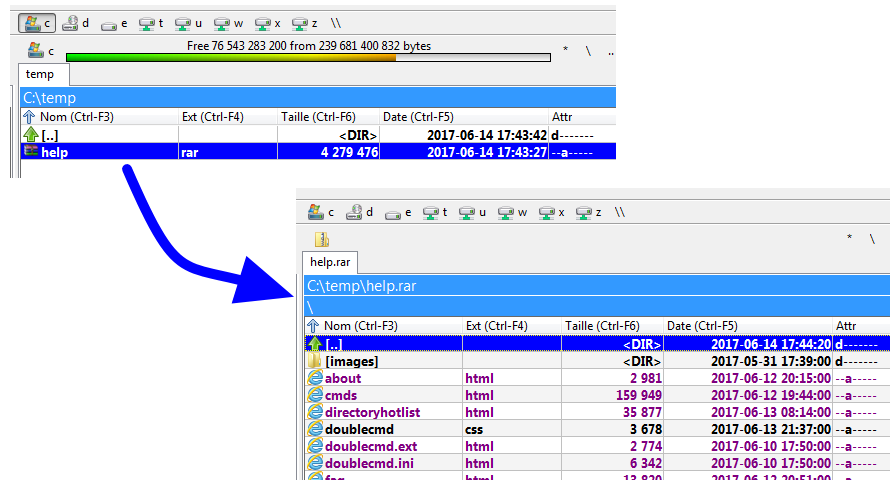
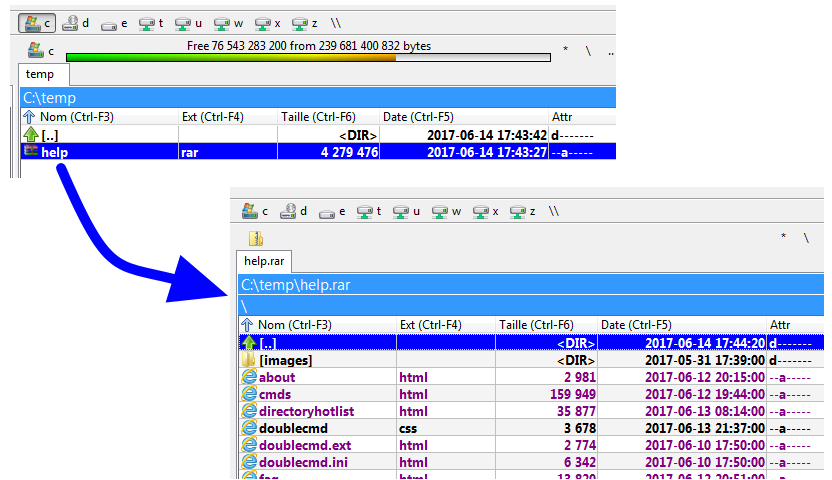
FIX: In "Internal Commands" help page, cosmetic correction the title of image of "cm_FocusSwap" internal command. FIX: In "Internal Commands" help page, correct the description of the "cm_MarkPlus" with the absence of "attr" field. UPD: In "Basic Help" help page, added some spaces from there and the

diff --git a/doc/en/cmds.html b/doc/en/cmds.html
@@ -1128,12 +1128,12 @@
                   <td class="innerdescdesccell">filtering will take files that are writeable either by user, group or anybody else (Linux)</td>
                 </tr>
                 <tr>
-                  <td class="innerdescvaluecell"></td>
-                  <td class="innerdescdesccell">note: this means "attr=" with no right value.<BR>filter everything, no matter the configured "Default attribute mask"</td>
-                </tr>
-                <tr>
                   <td class="innerdescvaluecell"><i>(absent)</i></td>
                   <td class="innerdescdesccell">filtering will be done according to what's configured in "File views", section "Marking/Unmarking entries", the option "Default attribute mask value to use".</td>
+                </tr>
+                <tr>
+                  <td class="innerdescvaluecell"></td>
+                  <td class="innerdescdesccell">note: this means "attr=" with no right value.<BR>filter everything, no matter the configured "Default attribute mask"</td>
                 </tr>
               </table>
               <B>Note1:</b> So if command is used without any parameters, user will be prompt to enter its filter and other options will be the same ones as the last time their were specified in the current session foreach file view.<BR>
@@ -1186,12 +1186,12 @@
                   <td class="innerdescdesccell">filter all entries that are writeable either by user, group or anybody else (Linux)</td>
                 </tr>
                 <tr>
-                  <td class="innerdescvaluecell"></td>
-                  <td class="innerdescdesccell">note: this means "attr=" with no right value.<BR>filter everything, no matter the configured "Default attribute mask"</td>
-                </tr>
-                <tr>
                   <td class="innerdescvaluecell"><i>(absent)</i></td>
                   <td class="innerdescdesccell">will select everything that match what's configured in "File views", section "Marking/Unmarking entries", the option "Default attribute mask value to use".</td>
+                </tr>
+                <tr>
+                  <td class="innerdescvaluecell"></td>
+                  <td class="innerdescdesccell">note: this means "attr=" with no right value.<BR>filter everything, no matter the configured "Default attribute mask"</td>
                 </tr>
               </table>
             </td>
@@ -1757,7 +1757,7 @@
             <td class="cmdhintcell">According to list of last directories visited, will set the active panel to the very last one visited prior to current one.</td>
           </tr>
           <tr>
-            <td class="cmdcell"><img class="IntCmdImage" title="cm_" alt="cm_FocusSwap" src="../../pixmaps/dctheme/32x32/actions/cm_focusswap.png">
+            <td class="cmdcell"><img class="IntCmdImage" title="cm_FocusSwap" alt="cm_FocusSwap" src="../../pixmaps/dctheme/32x32/actions/cm_focusswap.png">
               <div class="cmdname"><a name="cm_FocusSwap">cm_FocusSwap</a></div></td>
             <td class="cmdhintcell">Switch focus between left and right panel.<br>
               <br>

diff --git a/doc/en/lua.html b/doc/en/lua.html
@@ -651,9 +651,9 @@ ButPressed <span class="luasbl">=</span> <span class="mark">Dialogs.MessageBox</
         <h2>3.4.6. <a name="querysample">Example of usage of the Dialogs.InputQuery</a></h2>
         <p>Here is a little script using <code>Dialogs.InputQuery</code> and the resulting window that will be displayed:</p>
         <pre>
-bCancelOrNot<span class="luasbl">,</span> sAnswer <span class="luasbl">=</span> <span class="mark">Dialogs.InputQuery</span><span class="luasbl">(</span><span class="luastr">"Identification"</span><span class="luasbl">,</span> <span class="luastr">"Enter your name:"</span><span class="luasbl">,</span> false<span class="luasbl">,</span> <span class="luastr">"John"</span><span class="luasbl">)</span>
+bAck<span class="luasbl">,</span> sAnswer <span class="luasbl">=</span> <span class="mark">Dialogs.InputQuery</span><span class="luasbl">(</span><span class="luastr">"Identification"</span><span class="luasbl">,</span> <span class="luastr">"Enter your name:"</span><span class="luasbl">,</span> false<span class="luasbl">,</span> <span class="luastr">"John"</span><span class="luasbl">)</span>
 
-<span class="luakyw">if</span> bCancelOrNot <span class="luasbl">==</span> true then
+<span class="luakyw">if</span> bAck <span class="luasbl">==</span> true then
   Dialogs<span class="luasbl">.</span>MessageBox<span class="luasbl">(</span><span class="luastr">"Hello "</span> <span class="luasbl">..</span> sAnswer .. <span class="luastr">"!"</span><span class="luasbl">,</span> <span class="luastr">"Welcome!"</span><span class="luasbl">,</span> <span class="luanum">0x0040</span><span class="luasbl">)</span>
 <span class="luakyw">end</span></pre>
         <p class="figure"><img class="largeimage" title="Example of usage of the Dialogs.InputQuery" alt="Example of usage of the Dialogs.InputQuery" src="images/imgDC/luaimg5.png" width="504" height="122"></p>
@@ -733,7 +733,7 @@ bCancelOrNot<span class="luasbl">,</span> sAnswer <span class="luasbl">=</span> 
           <tr>
             <td class="varcell"><div class="firstcolumnaleft">os.tmpname</div></td>
             <td class="hintcell">
-              <p class="definition">tempfilename = os.tempname()</p>
+              <p class="definition">tempfilename = os.tmpname()</p>
               <p>Will return a filename to use as a temporary filename.</p>
             </td>
           </tr>

diff --git a/doc/en/directoryhotlist.html b/doc/en/directoryhotlist.html
@@ -221,11 +221,11 @@
       <div>
         <h2><a name="cutandpaste">2.11. Using "cut" and "paste" to also re-arrange order</a></h2>
         <p>If you have a very long list of directories, the drag-and-drop method might not be suitable because source and destination are too far apart.</p>
-        <p>If so, you may select the one you want to move, then right click on it and select "<B>cut</b>".</p>
-        <p>Then you scroll the list to see the target position you want to place the entry and you select the position.</p>
-        <p>Then you right click and select "<B>Paste</b>" to paste the entry you selected first.</p>
+        <p>If so, you may select the ones you want to move, then click the "Miscellaneous" button to invoke the popup menu and select "<B>Cut selection of entries</b>".</p>
+        <p>Then you scroll the list to see the target position you want to place the selected entries.</p>
+        <p>Then you click again the "Miscellaneous" button and select "<B>Paste what was cut</b>" to paste the entries you've first selected.</p>
         <p>By using the "<B>Ctrl</b>" key, you may select more than one entry at the time to cut-and-paste.</p>
-        <p class="figure"><img class="largeimage" title="Cut-and-paste" alt="Cut-and-paste" src="images/imgDC/dirhot_cutandpaste.png" width="865" height="277"></p>
+        <p class="figure"><img class="largeimage" title="Cut-and-paste" alt="Cut-and-paste" src="images/imgDC/dirhot_cutandpaste.png" width="876" height="596"></p>
         <p class="navback"><a href="#topofpage">(back to top)</a></p>
       </div>
 

diff --git a/doc/en/help.html b/doc/en/help.html
@@ -732,7 +732,7 @@
 
       <div>
         <h2><a name="iface_tabs">3.5. Tabs bar</a></h2>
-        <p class="figure"><img class="largeimage" alt="Tabs bar" title="Tabs bar" src="images/imgDC/pic6.png" width="445" height="33"></p>
+        <p class="figure"><img class="largeimage" alt="Tabs bar" title="Tabs bar" src="images/imgDC/pic6.png" width="484" height="32"></p>
 
         <p>Display tabs. Click on tabs with left mouse or you can use the keyboard to navigate tabs (<kbd>Ctrl+Tab</kbd> and <kbd>Ctrl+Shift+Tab</kbd> by default). Locked tabs are marked with an asterisk (if <a href="#5_1_12_1_zvezda">Show locked tabs with an asterisk *</a> is enabled).</p>
         <p class="navback"><a href="#topofpage">(back to top)</a></p>
@@ -796,7 +796,7 @@
 
       <div>
         <h2><a name="iface_buttons">3.11. Function key buttons bar</a></h2>
-        <p class="figure"><img class="largeimage" alt="Function key buttons bar" title="Function key buttons bar" src="images/imgDC/pic9.png" width="884" height="31"></p>
+        <p class="figure"><img class="largeimage" alt="Function key buttons bar" title="Function key buttons bar" src="images/imgDC/pic9.png" width="884" height="30"></p>
         <p>Displays F3 - F9 hotkeys. Enables you to select commands with a mouse click.</p>
       </div>
 

diff --git a/doc/en/multiarc.html b/doc/en/multiarc.html
@@ -62,7 +62,7 @@
         <p>For example if we have a zip file into a panel, we may simply select it, press <kbd>Enter</kbd> and panel will show the content of the zip just like if we would change to a directory.</p>
         <p>Once "inside" the compressed file, we may do some minimal basic functions like viewing the file, copy it to the other panel and some limited function like that.</p>
         <p>The next following image shows us an example where we selected the compressed file "Help.rar" and we simply press <kbd>Enter</kbd> in it just like it would be a directory:</p>
-        <p class="figure"><img class="largeimage" title="Overview" alt="Overview" src="images/imgDC/archiveimg1.png" width="890" height="476"></p>
+        <p class="figure"><img class="largeimage" title="Overview" alt="Overview" src="images/imgDC/archiveimg1.png" width="832" height="480"></p>
         <p class="navback"><a href="#topofpage">(back to top)</a></p>
       </div>
 
